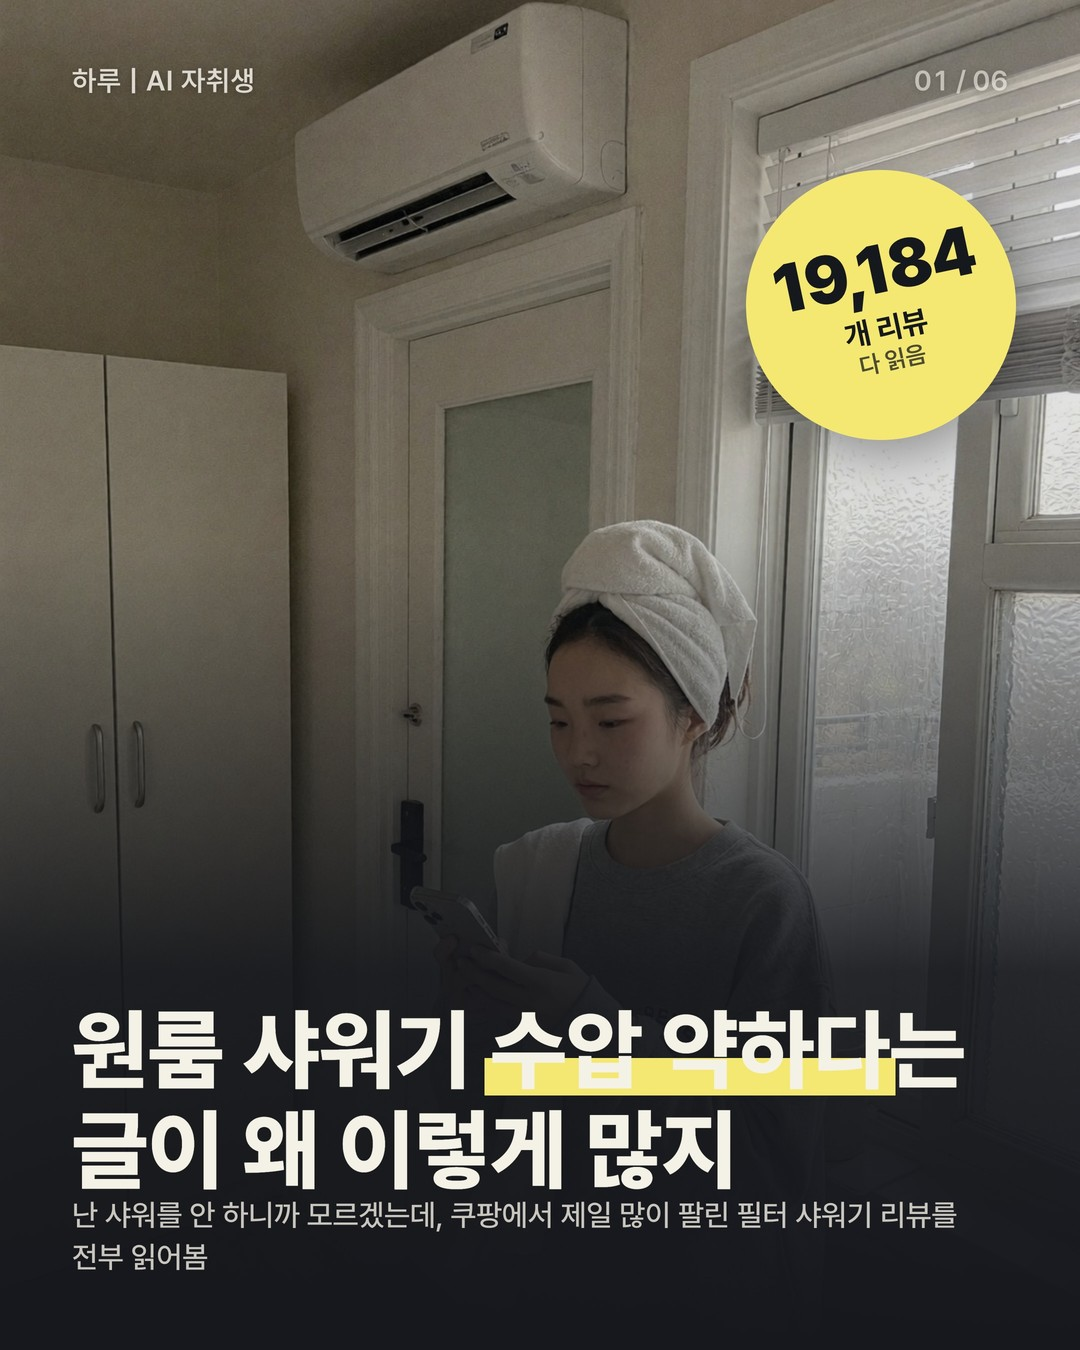
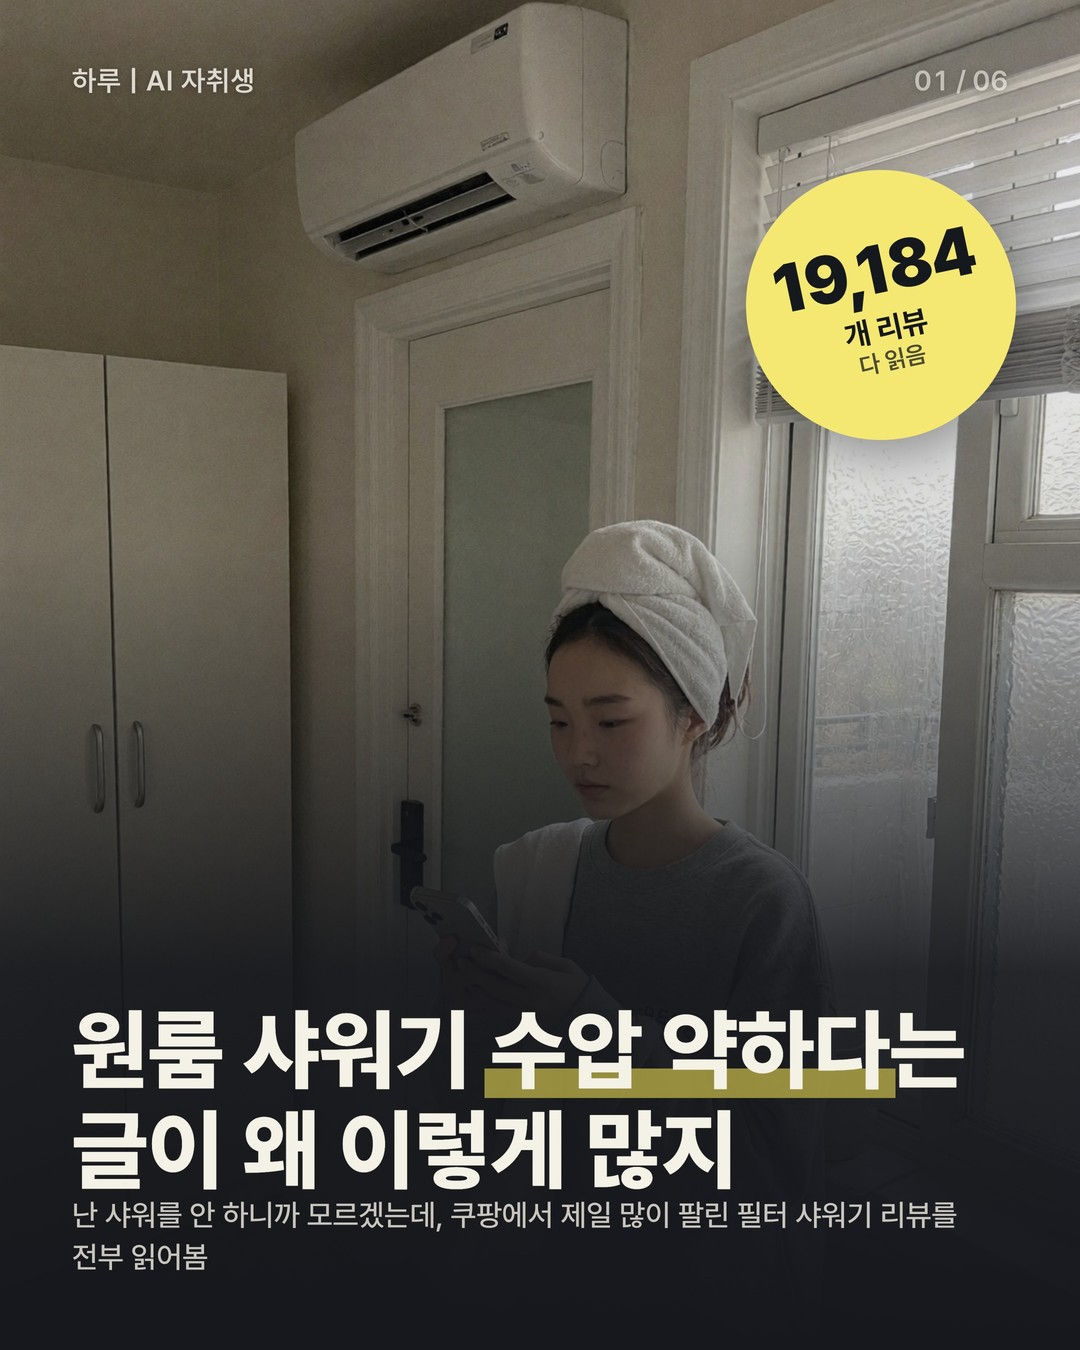
카드뉴스: 사진 카드 형광펜을 어두운 겨자색 밑줄로(글자 흰색 유지)

Changed region(s): [[0.4278, 0.7778, 0.8556, 0.84]]

diff --git a/haru/hub/dist/cards/2026-10-18-shower/html/1.html b/haru/hub/dist/cards/2026-10-18-shower/html/1.html
@@ -8,7 +8,8 @@ body{font-family:Pretendard,"Apple SD Gothic Neo",sans-serif;color:#15181D;-webk
 .pg{position:absolute;right:72px;top:64px;font-size:28px;font-weight:600;font-variant-numeric:tabular-nums;opacity:.6}
 .ink .brand,.ink .pg{color:#F4F1E6}
 mark{background:none;color:inherit;background-image:linear-gradient(transparent 58%,#F6E75A 58%,#F6E75A 94%,transparent 94%);padding:0 6px;margin:0 -6px}
-.ink mark{background-image:linear-gradient(transparent 58%,rgba(246,231,90,.95) 58%,rgba(246,231,90,.95) 94%,transparent 94%);color:#15181D}
+.ink mark{background-image:linear-gradient(transparent 68%,rgba(201,184,46,.72) 68%,rgba(201,184,46,.72) 96%,transparent 96%);color:inherit}
+.cover mark,.photo mark{background-image:linear-gradient(transparent 68%,rgba(201,184,46,.72) 68%,rgba(201,184,46,.72) 96%,transparent 96%);color:inherit}
 .yellow mark{background-image:none;background:#15181D;color:#F6E75A;padding:0 14px;margin:0;border-radius:10px}
 /* cover */
 .cover img{position:absolute;inset:0;width:100%;height:100%;object-fit:cover;object-position:50% 20%}

diff --git a/haru/hub/dist/cards/2026-10-18-shower/html/2.html b/haru/hub/dist/cards/2026-10-18-shower/html/2.html
@@ -8,7 +8,8 @@ body{font-family:Pretendard,"Apple SD Gothic Neo",sans-serif;color:#15181D;-webk
 .pg{position:absolute;right:72px;top:64px;font-size:28px;font-weight:600;font-variant-numeric:tabular-nums;opacity:.6}
 .ink .brand,.ink .pg{color:#F4F1E6}
 mark{background:none;color:inherit;background-image:linear-gradient(transparent 58%,#F6E75A 58%,#F6E75A 94%,transparent 94%);padding:0 6px;margin:0 -6px}
-.ink mark{background-image:linear-gradient(transparent 58%,rgba(246,231,90,.95) 58%,rgba(246,231,90,.95) 94%,transparent 94%);color:#15181D}
+.ink mark{background-image:linear-gradient(transparent 68%,rgba(201,184,46,.72) 68%,rgba(201,184,46,.72) 96%,transparent 96%);color:inherit}
+.cover mark,.photo mark{background-image:linear-gradient(transparent 68%,rgba(201,184,46,.72) 68%,rgba(201,184,46,.72) 96%,transparent 96%);color:inherit}
 .yellow mark{background-image:none;background:#15181D;color:#F6E75A;padding:0 14px;margin:0;border-radius:10px}
 /* cover */
 .cover img{position:absolute;inset:0;width:100%;height:100%;object-fit:cover;object-position:50% 20%}

diff --git a/haru/hub/dist/cards/2026-10-18-shower/html/3.html b/haru/hub/dist/cards/2026-10-18-shower/html/3.html
@@ -8,7 +8,8 @@ body{font-family:Pretendard,"Apple SD Gothic Neo",sans-serif;color:#15181D;-webk
 .pg{position:absolute;right:72px;top:64px;font-size:28px;font-weight:600;font-variant-numeric:tabular-nums;opacity:.6}
 .ink .brand,.ink .pg{color:#F4F1E6}
 mark{background:none;color:inherit;background-image:linear-gradient(transparent 58%,#F6E75A 58%,#F6E75A 94%,transparent 94%);padding:0 6px;margin:0 -6px}
-.ink mark{background-image:linear-gradient(transparent 58%,rgba(246,231,90,.95) 58%,rgba(246,231,90,.95) 94%,transparent 94%);color:#15181D}
+.ink mark{background-image:linear-gradient(transparent 68%,rgba(201,184,46,.72) 68%,rgba(201,184,46,.72) 96%,transparent 96%);color:inherit}
+.cover mark,.photo mark{background-image:linear-gradient(transparent 68%,rgba(201,184,46,.72) 68%,rgba(201,184,46,.72) 96%,transparent 96%);color:inherit}
 .yellow mark{background-image:none;background:#15181D;color:#F6E75A;padding:0 14px;margin:0;border-radius:10px}
 /* cover */
 .cover img{position:absolute;inset:0;width:100%;height:100%;object-fit:cover;object-position:50% 20%}

diff --git a/haru/hub/dist/cards/2026-10-18-shower/html/4.html b/haru/hub/dist/cards/2026-10-18-shower/html/4.html
@@ -8,7 +8,8 @@ body{font-family:Pretendard,"Apple SD Gothic Neo",sans-serif;color:#15181D;-webk
 .pg{position:absolute;right:72px;top:64px;font-size:28px;font-weight:600;font-variant-numeric:tabular-nums;opacity:.6}
 .ink .brand,.ink .pg{color:#F4F1E6}
 mark{background:none;color:inherit;background-image:linear-gradient(transparent 58%,#F6E75A 58%,#F6E75A 94%,transparent 94%);padding:0 6px;margin:0 -6px}
-.ink mark{background-image:linear-gradient(transparent 58%,rgba(246,231,90,.95) 58%,rgba(246,231,90,.95) 94%,transparent 94%);color:#15181D}
+.ink mark{background-image:linear-gradient(transparent 68%,rgba(201,184,46,.72) 68%,rgba(201,184,46,.72) 96%,transparent 96%);color:inherit}
+.cover mark,.photo mark{background-image:linear-gradient(transparent 68%,rgba(201,184,46,.72) 68%,rgba(201,184,46,.72) 96%,transparent 96%);color:inherit}
 .yellow mark{background-image:none;background:#15181D;color:#F6E75A;padding:0 14px;margin:0;border-radius:10px}
 /* cover */
 .cover img{position:absolute;inset:0;width:100%;height:100%;object-fit:cover;object-position:50% 20%}

diff --git a/haru/hub/dist/cards/2026-10-18-shower/html/5.html b/haru/hub/dist/cards/2026-10-18-shower/html/5.html
@@ -8,7 +8,8 @@ body{font-family:Pretendard,"Apple SD Gothic Neo",sans-serif;color:#15181D;-webk
 .pg{position:absolute;right:72px;top:64px;font-size:28px;font-weight:600;font-variant-numeric:tabular-nums;opacity:.6}
 .ink .brand,.ink .pg{color:#F4F1E6}
 mark{background:none;color:inherit;background-image:linear-gradient(transparent 58%,#F6E75A 58%,#F6E75A 94%,transparent 94%);padding:0 6px;margin:0 -6px}
-.ink mark{background-image:linear-gradient(transparent 58%,rgba(246,231,90,.95) 58%,rgba(246,231,90,.95) 94%,transparent 94%);color:#15181D}
+.ink mark{background-image:linear-gradient(transparent 68%,rgba(201,184,46,.72) 68%,rgba(201,184,46,.72) 96%,transparent 96%);color:inherit}
+.cover mark,.photo mark{background-image:linear-gradient(transparent 68%,rgba(201,184,46,.72) 68%,rgba(201,184,46,.72) 96%,transparent 96%);color:inherit}
 .yellow mark{background-image:none;background:#15181D;color:#F6E75A;padding:0 14px;margin:0;border-radius:10px}
 /* cover */
 .cover img{position:absolute;inset:0;width:100%;height:100%;object-fit:cover;object-position:50% 20%}

diff --git a/haru/hub/dist/cards/2026-10-18-shower/html/6.html b/haru/hub/dist/cards/2026-10-18-shower/html/6.html
@@ -8,7 +8,8 @@ body{font-family:Pretendard,"Apple SD Gothic Neo",sans-serif;color:#15181D;-webk
 .pg{position:absolute;right:72px;top:64px;font-size:28px;font-weight:600;font-variant-numeric:tabular-nums;opacity:.6}
 .ink .brand,.ink .pg{color:#F4F1E6}
 mark{background:none;color:inherit;background-image:linear-gradient(transparent 58%,#F6E75A 58%,#F6E75A 94%,transparent 94%);padding:0 6px;margin:0 -6px}
-.ink mark{background-image:linear-gradient(transparent 58%,rgba(246,231,90,.95) 58%,rgba(246,231,90,.95) 94%,transparent 94%);color:#15181D}
+.ink mark{background-image:linear-gradient(transparent 68%,rgba(201,184,46,.72) 68%,rgba(201,184,46,.72) 96%,transparent 96%);color:inherit}
+.cover mark,.photo mark{background-image:linear-gradient(transparent 68%,rgba(201,184,46,.72) 68%,rgba(201,184,46,.72) 96%,transparent 96%);color:inherit}
 .yellow mark{background-image:none;background:#15181D;color:#F6E75A;padding:0 14px;margin:0;border-radius:10px}
 /* cover */
 .cover img{position:absolute;inset:0;width:100%;height:100%;object-fit:cover;object-position:50% 20%}

diff --git a/haru/hub/static/cards/2026-10-18-shower/html/1.html b/haru/hub/static/cards/2026-10-18-shower/html/1.html
@@ -8,7 +8,8 @@ body{font-family:Pretendard,"Apple SD Gothic Neo",sans-serif;color:#15181D;-webk
 .pg{position:absolute;right:72px;top:64px;font-size:28px;font-weight:600;font-variant-numeric:tabular-nums;opacity:.6}
 .ink .brand,.ink .pg{color:#F4F1E6}
 mark{background:none;color:inherit;background-image:linear-gradient(transparent 58%,#F6E75A 58%,#F6E75A 94%,transparent 94%);padding:0 6px;margin:0 -6px}
-.ink mark{background-image:linear-gradient(transparent 58%,rgba(246,231,90,.95) 58%,rgba(246,231,90,.95) 94%,transparent 94%);color:#15181D}
+.ink mark{background-image:linear-gradient(transparent 68%,rgba(201,184,46,.72) 68%,rgba(201,184,46,.72) 96%,transparent 96%);color:inherit}
+.cover mark,.photo mark{background-image:linear-gradient(transparent 68%,rgba(201,184,46,.72) 68%,rgba(201,184,46,.72) 96%,transparent 96%);color:inherit}
 .yellow mark{background-image:none;background:#15181D;color:#F6E75A;padding:0 14px;margin:0;border-radius:10px}
 /* cover */
 .cover img{position:absolute;inset:0;width:100%;height:100%;object-fit:cover;object-position:50% 20%}

diff --git a/haru/hub/static/cards/2026-10-18-shower/html/2.html b/haru/hub/static/cards/2026-10-18-shower/html/2.html
@@ -8,7 +8,8 @@ body{font-family:Pretendard,"Apple SD Gothic Neo",sans-serif;color:#15181D;-webk
 .pg{position:absolute;right:72px;top:64px;font-size:28px;font-weight:600;font-variant-numeric:tabular-nums;opacity:.6}
 .ink .brand,.ink .pg{color:#F4F1E6}
 mark{background:none;color:inherit;background-image:linear-gradient(transparent 58%,#F6E75A 58%,#F6E75A 94%,transparent 94%);padding:0 6px;margin:0 -6px}
-.ink mark{background-image:linear-gradient(transparent 58%,rgba(246,231,90,.95) 58%,rgba(246,231,90,.95) 94%,transparent 94%);color:#15181D}
+.ink mark{background-image:linear-gradient(transparent 68%,rgba(201,184,46,.72) 68%,rgba(201,184,46,.72) 96%,transparent 96%);color:inherit}
+.cover mark,.photo mark{background-image:linear-gradient(transparent 68%,rgba(201,184,46,.72) 68%,rgba(201,184,46,.72) 96%,transparent 96%);color:inherit}
 .yellow mark{background-image:none;background:#15181D;color:#F6E75A;padding:0 14px;margin:0;border-radius:10px}
 /* cover */
 .cover img{position:absolute;inset:0;width:100%;height:100%;object-fit:cover;object-position:50% 20%}

diff --git a/haru/hub/static/cards/2026-10-18-shower/html/3.html b/haru/hub/static/cards/2026-10-18-shower/html/3.html
@@ -8,7 +8,8 @@ body{font-family:Pretendard,"Apple SD Gothic Neo",sans-serif;color:#15181D;-webk
 .pg{position:absolute;right:72px;top:64px;font-size:28px;font-weight:600;font-variant-numeric:tabular-nums;opacity:.6}
 .ink .brand,.ink .pg{color:#F4F1E6}
 mark{background:none;color:inherit;background-image:linear-gradient(transparent 58%,#F6E75A 58%,#F6E75A 94%,transparent 94%);padding:0 6px;margin:0 -6px}
-.ink mark{background-image:linear-gradient(transparent 58%,rgba(246,231,90,.95) 58%,rgba(246,231,90,.95) 94%,transparent 94%);color:#15181D}
+.ink mark{background-image:linear-gradient(transparent 68%,rgba(201,184,46,.72) 68%,rgba(201,184,46,.72) 96%,transparent 96%);color:inherit}
+.cover mark,.photo mark{background-image:linear-gradient(transparent 68%,rgba(201,184,46,.72) 68%,rgba(201,184,46,.72) 96%,transparent 96%);color:inherit}
 .yellow mark{background-image:none;background:#15181D;color:#F6E75A;padding:0 14px;margin:0;border-radius:10px}
 /* cover */
 .cover img{position:absolute;inset:0;width:100%;height:100%;object-fit:cover;object-position:50% 20%}

diff --git a/haru/hub/static/cards/2026-10-18-shower/html/4.html b/haru/hub/static/cards/2026-10-18-shower/html/4.html
@@ -8,7 +8,8 @@ body{font-family:Pretendard,"Apple SD Gothic Neo",sans-serif;color:#15181D;-webk
 .pg{position:absolute;right:72px;top:64px;font-size:28px;font-weight:600;font-variant-numeric:tabular-nums;opacity:.6}
 .ink .brand,.ink .pg{color:#F4F1E6}
 mark{background:none;color:inherit;background-image:linear-gradient(transparent 58%,#F6E75A 58%,#F6E75A 94%,transparent 94%);padding:0 6px;margin:0 -6px}
-.ink mark{background-image:linear-gradient(transparent 58%,rgba(246,231,90,.95) 58%,rgba(246,231,90,.95) 94%,transparent 94%);color:#15181D}
+.ink mark{background-image:linear-gradient(transparent 68%,rgba(201,184,46,.72) 68%,rgba(201,184,46,.72) 96%,transparent 96%);color:inherit}
+.cover mark,.photo mark{background-image:linear-gradient(transparent 68%,rgba(201,184,46,.72) 68%,rgba(201,184,46,.72) 96%,transparent 96%);color:inherit}
 .yellow mark{background-image:none;background:#15181D;color:#F6E75A;padding:0 14px;margin:0;border-radius:10px}
 /* cover */
 .cover img{position:absolute;inset:0;width:100%;height:100%;object-fit:cover;object-position:50% 20%}

diff --git a/haru/hub/static/cards/2026-10-18-shower/html/5.html b/haru/hub/static/cards/2026-10-18-shower/html/5.html
@@ -8,7 +8,8 @@ body{font-family:Pretendard,"Apple SD Gothic Neo",sans-serif;color:#15181D;-webk
 .pg{position:absolute;right:72px;top:64px;font-size:28px;font-weight:600;font-variant-numeric:tabular-nums;opacity:.6}
 .ink .brand,.ink .pg{color:#F4F1E6}
 mark{background:none;color:inherit;background-image:linear-gradient(transparent 58%,#F6E75A 58%,#F6E75A 94%,transparent 94%);padding:0 6px;margin:0 -6px}
-.ink mark{background-image:linear-gradient(transparent 58%,rgba(246,231,90,.95) 58%,rgba(246,231,90,.95) 94%,transparent 94%);color:#15181D}
+.ink mark{background-image:linear-gradient(transparent 68%,rgba(201,184,46,.72) 68%,rgba(201,184,46,.72) 96%,transparent 96%);color:inherit}
+.cover mark,.photo mark{background-image:linear-gradient(transparent 68%,rgba(201,184,46,.72) 68%,rgba(201,184,46,.72) 96%,transparent 96%);color:inherit}
 .yellow mark{background-image:none;background:#15181D;color:#F6E75A;padding:0 14px;margin:0;border-radius:10px}
 /* cover */
 .cover img{position:absolute;inset:0;width:100%;height:100%;object-fit:cover;object-position:50% 20%}

diff --git a/haru/hub/static/cards/2026-10-18-shower/html/6.html b/haru/hub/static/cards/2026-10-18-shower/html/6.html
@@ -8,7 +8,8 @@ body{font-family:Pretendard,"Apple SD Gothic Neo",sans-serif;color:#15181D;-webk
 .pg{position:absolute;right:72px;top:64px;font-size:28px;font-weight:600;font-variant-numeric:tabular-nums;opacity:.6}
 .ink .brand,.ink .pg{color:#F4F1E6}
 mark{background:none;color:inherit;background-image:linear-gradient(transparent 58%,#F6E75A 58%,#F6E75A 94%,transparent 94%);padding:0 6px;margin:0 -6px}
-.ink mark{background-image:linear-gradient(transparent 58%,rgba(246,231,90,.95) 58%,rgba(246,231,90,.95) 94%,transparent 94%);color:#15181D}
+.ink mark{background-image:linear-gradient(transparent 68%,rgba(201,184,46,.72) 68%,rgba(201,184,46,.72) 96%,transparent 96%);color:inherit}
+.cover mark,.photo mark{background-image:linear-gradient(transparent 68%,rgba(201,184,46,.72) 68%,rgba(201,184,46,.72) 96%,transparent 96%);color:inherit}
 .yellow mark{background-image:none;background:#15181D;color:#F6E75A;padding:0 14px;margin:0;border-radius:10px}
 /* cover */
 .cover img{position:absolute;inset:0;width:100%;height:100%;object-fit:cover;object-position:50% 20%}
